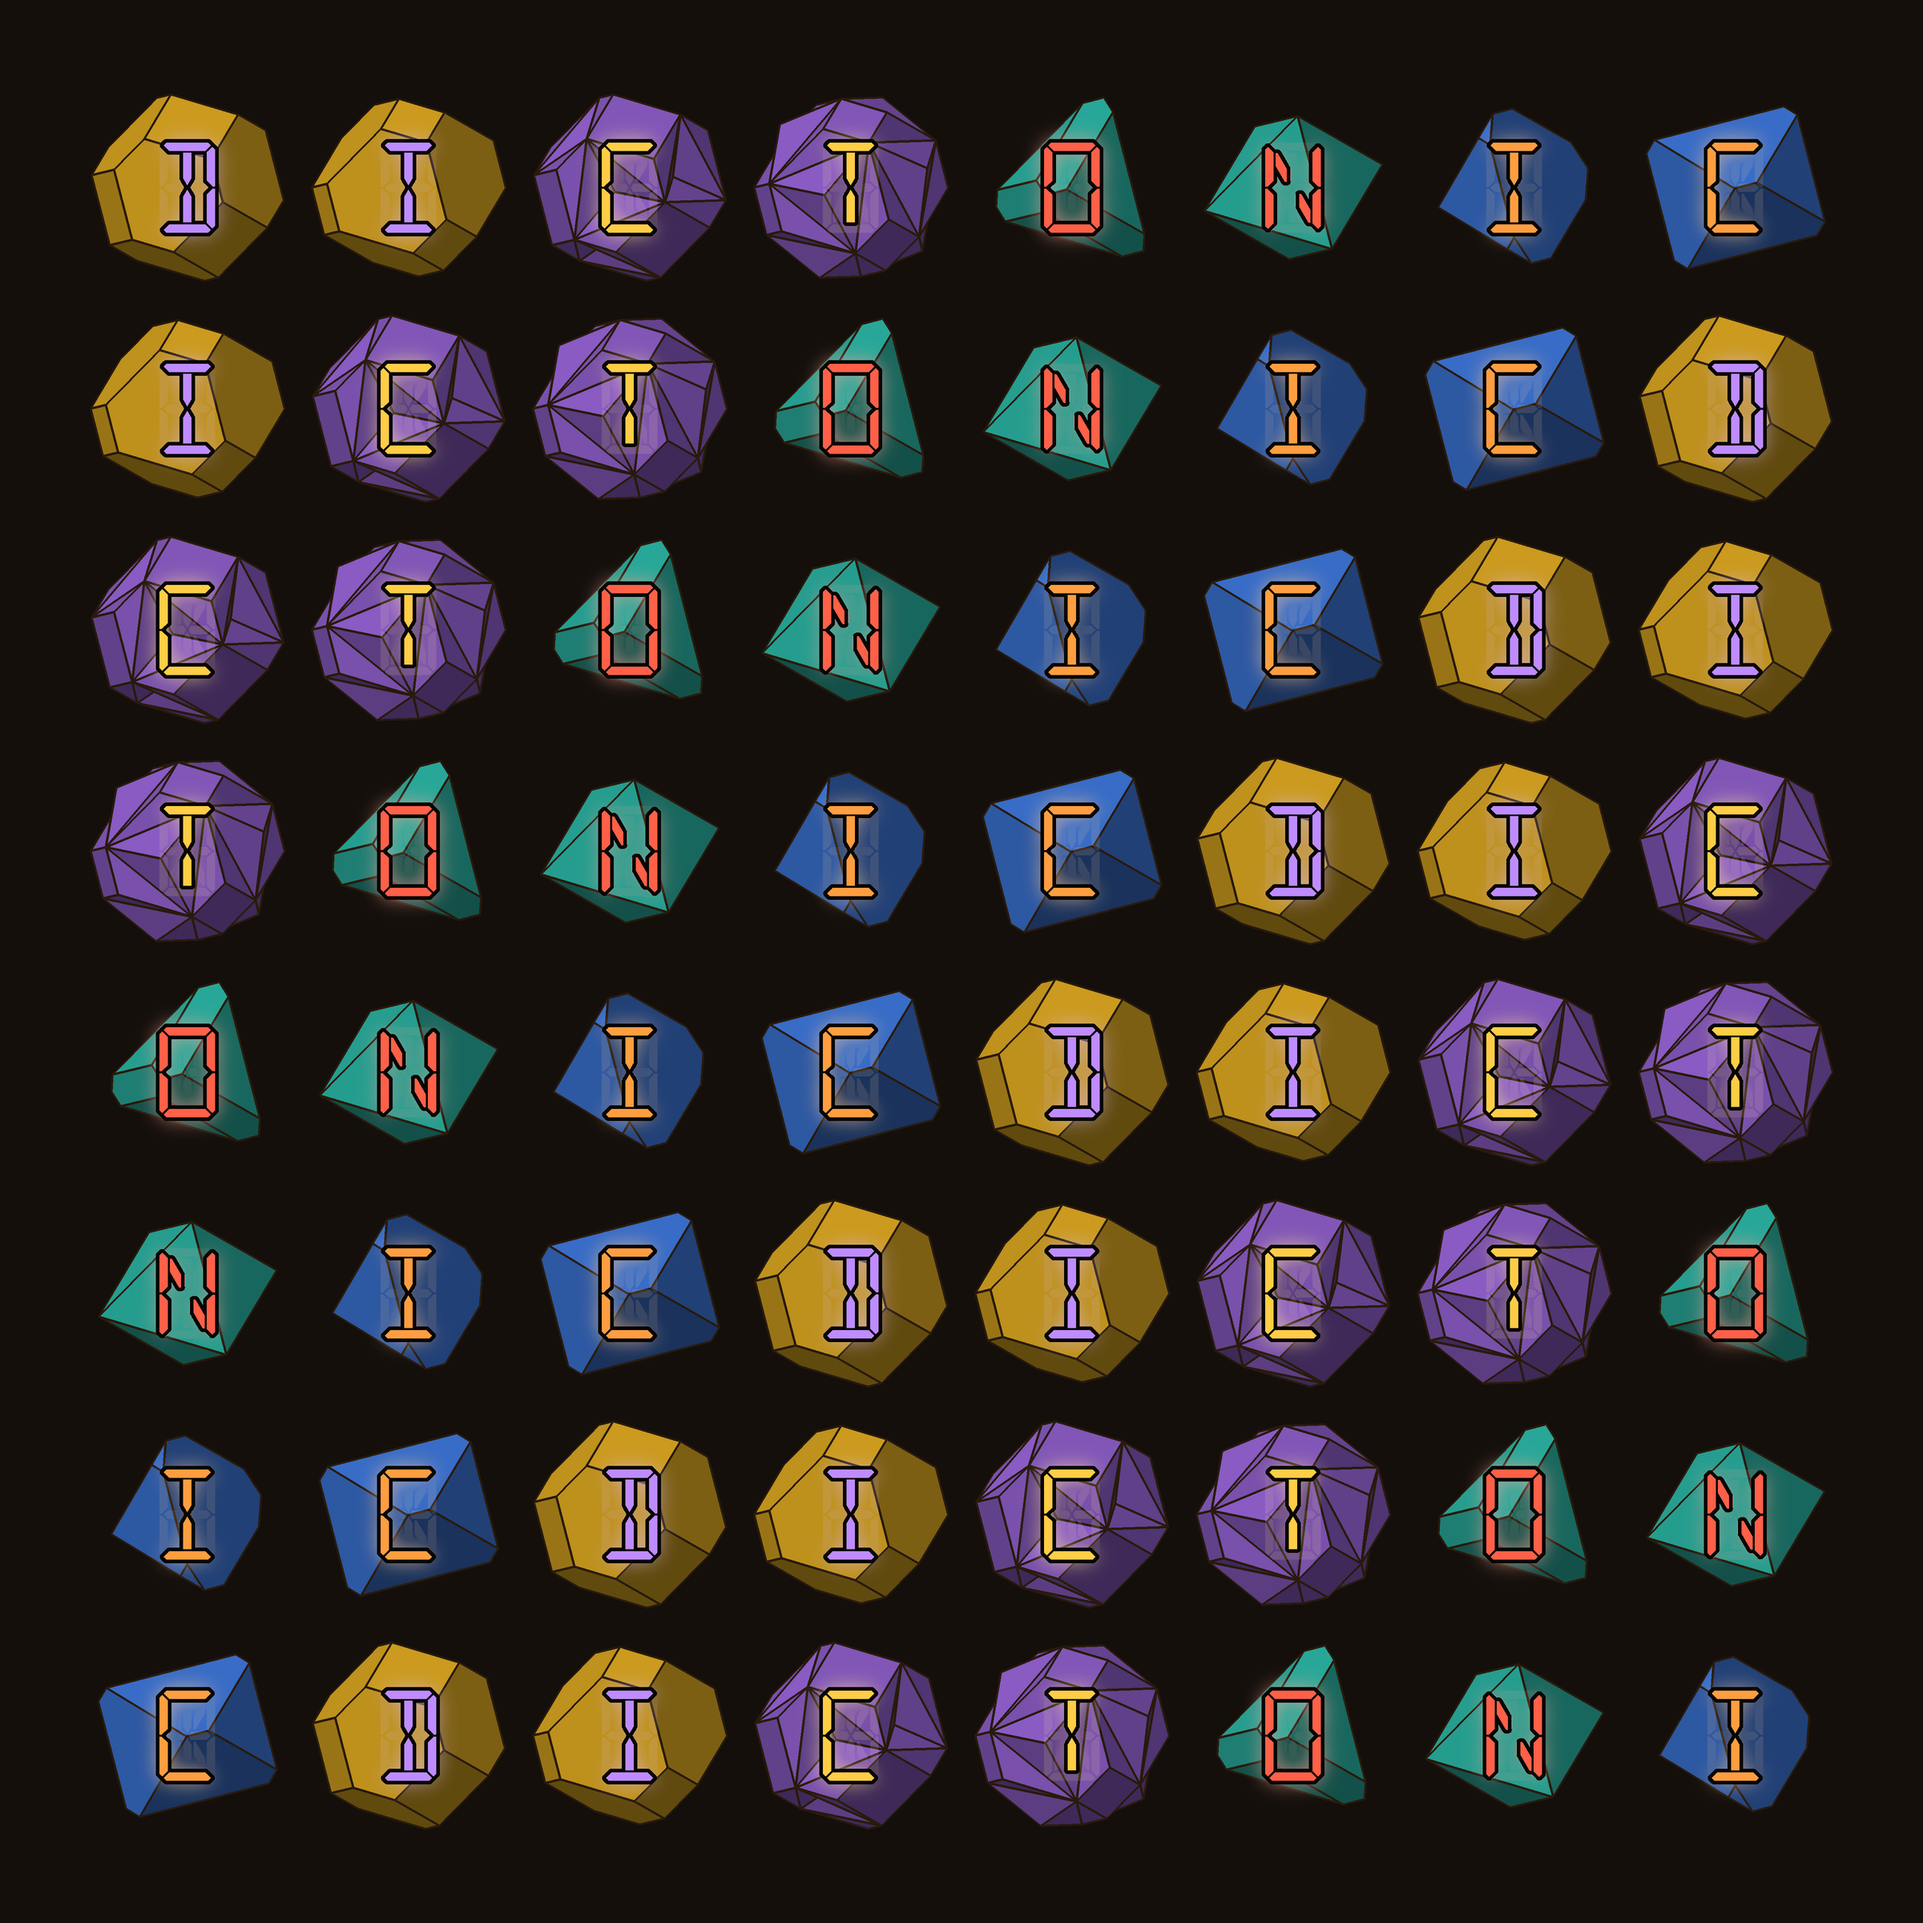
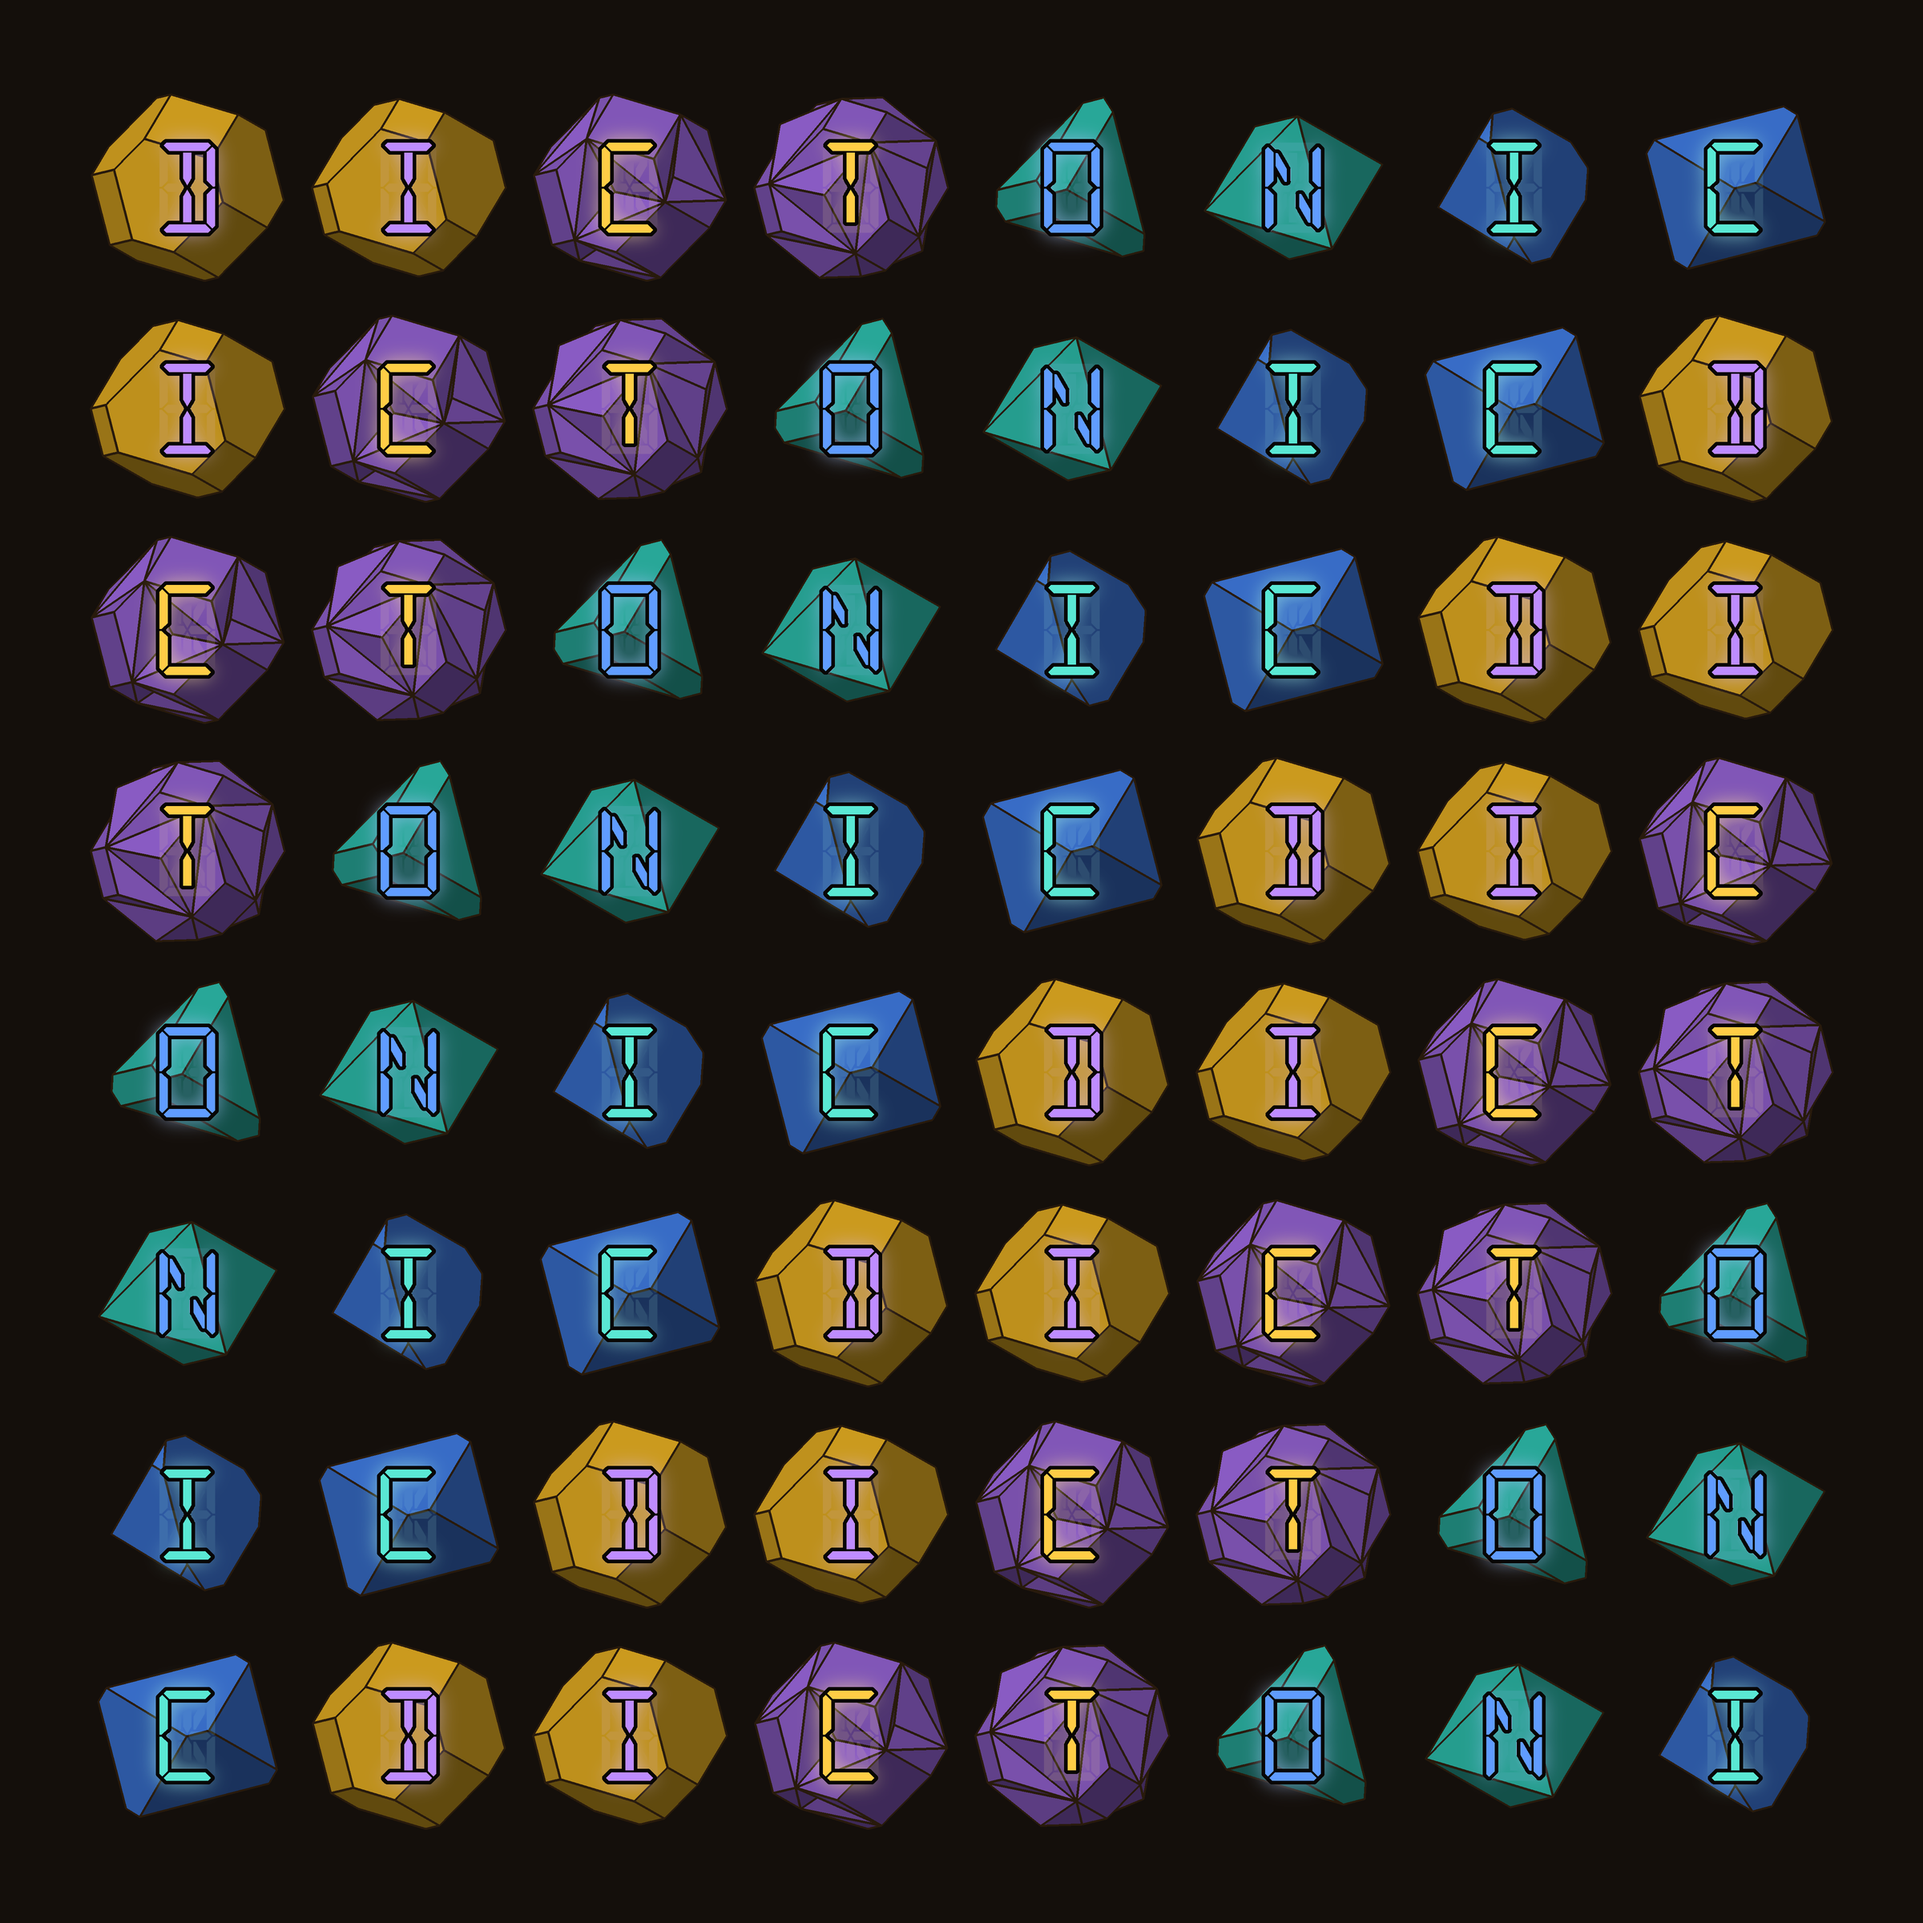
DICTONIC Bonds cover: reciprocal letter colours (Golden/Keyed swap gold and violet, Delian/Twinned Delian swap teal and blue)

diff --git a/studies/2026-11-03-bonds-cover/scripts/bonds_square.py b/studies/2026-11-03-bonds-cover/scripts/bonds_square.py
@@ -7,7 +7,8 @@
 # circumradius in the squares' one pose. One colour per bond (the squares' palette): Golden gold, Keyed violet, Delian teal, Twinned
 # Delian blue. Two pieces are not convex (the Lotus Jewel Axes' dents, the Dodecaxes' keys), so the pieces are drawn with a depth
 # buffer, not by sorting faces; edges are the borders between visible face planes (coplanar parts of one face are one face).
-# Letters: the HexOct LED letters (DSEG14 Classic, OFL) in the palette colour opposite the piece's, as on Star Cores (DICTO 10-31).
+# Letters: the HexOct LED letters (DSEG14 Classic, OFL), reciprocal colours (DICTO 11-03): Golden and Keyed swap gold/violet, Delian and
+# Twinned Delian swap teal/blue, so the letters use only the four piece colours.
 # Usage: bonds_square.py <dataset solids dir>
 import math, os, sys, json, numpy as np
 from scipy import ndimage
@@ -22,7 +23,8 @@ PIECES = [('Icosaxes', 'dicto-icosaxes', 14), ('Unborn Axes', 'dicto-unborn-axes
           ('Sonsam', 'dicto-sonsam', 13), ('Lahdeli', 'dicto-lahdeli', 8)]   # name, dataset slug, faces (as a check)
 BOND = [0, 0, 1, 1, 2, 2, 3, 3]
 BONDTONE = [(217, 165, 33), (138, 92, 196), (43, 179, 163), (58, 112, 205)]          # gold, violet, teal, blue
-BONDLETTER = [(190, 140, 255), (255, 205, 70), (255, 96, 72), (255, 158, 64)]         # opposites: violet, gold, red, orange (Star Cores' LETTER values)
+BONDLETTER = [(190, 140, 255), (255, 205, 70), (96, 156, 255), (90, 232, 212)]        # reciprocal (DICTO 11-03): each bond's letters in its partner bond's
+# piece colour, brightened as the Star Cores letters (same values): Golden violet, Keyed gold, Delian blue, Twinned Delian teal
 def load(slug):
     m = json.load(open(os.path.join(SOL, slug + '.json')))
     return np.array([[float(x) for x in v['decimal']] for v in m['vertices']]), [list(f) for f in m['faces']]

diff --git a/studies/2026-11-03-bonds-cover/README.md b/studies/2026-11-03-bonds-cover/README.md
@@ -7,7 +7,7 @@ Request (2026-11-03): the cover for DICTO's book "DICTONIC Bonds: from the Octet
 - Cyclic Latin square 8 x 8 of DICTONIC (row i, column j = position (i+j) mod 8): DICTONIC across the top and down the left; every position (piece) once in each row and column.
 - Pieces in the book's order (preface), exact corners and faces from the DICTO Solids dataset v7: D Icosaxes, I Unborn Axes (Golden bond, gold); C Lotus Jewel Axes, T Dodecaxes (Keyed bond, violet); O Samson, N Delilah (Delian bond, teal); I Sonsam, C Lahdeli (Twinned Delian bond, blue). Face counts checked (14, 14, 54, 54, 10, 8, 13, 8); winding checked; one circumradius, the squares' one pose.
 - Two pieces are not convex (dents, keys), so the pieces are drawn with a depth buffer; edges are the borders between visible face planes (~2 px at 2400 px).
-- Letters: the HexOct LED letters (DSEG14 Classic, OFL) in the opposite palette colour, as Star Cores: violet on gold, gold on violet, red on teal, orange on blue.
+- Letters: the HexOct LED letters (DSEG14 Classic, OFL) in reciprocal colours (DICTO 11-03): each bond takes its partner bond's piece colour, brightened as the Star Cores letters: violet on gold, gold on violet, blue on teal, teal on blue. No red or orange in the square.
 - Title panel as Star Cores: DICTONIC BONDS (gold, full capitals: every letter at the large size, DICTO 11-03; back title also capitals), FROM THE OCTET TO THE RULE OF HALVES (teal, shrunk to fit: 0.0325 N against 0.040), ◆ DICTO ◆ (red). No series line (not part of a series).
 - KDP wrap: A4 trim, bleed 0.125 in, 300 dpi; spine = 105 x 0.002252 in = 0.2365 in (white paper, as the other books; check KDP's calculator before upload); spine text (105 > 79 pages). Back: blurb from the preface, author note, ◆ DICTO ◆ mark, logo, DOI line "(to come)", barcode area 2 x 1.2 in kept clear.
 - scripts/bonds_square.py <dataset solids dir>, scripts/cover_title.py, scripts/kdp_cover.py (PAGES=, GUIDES=1); run on dicto-big-brother in ~/kres-tmp/bonds-cover/scripts.
